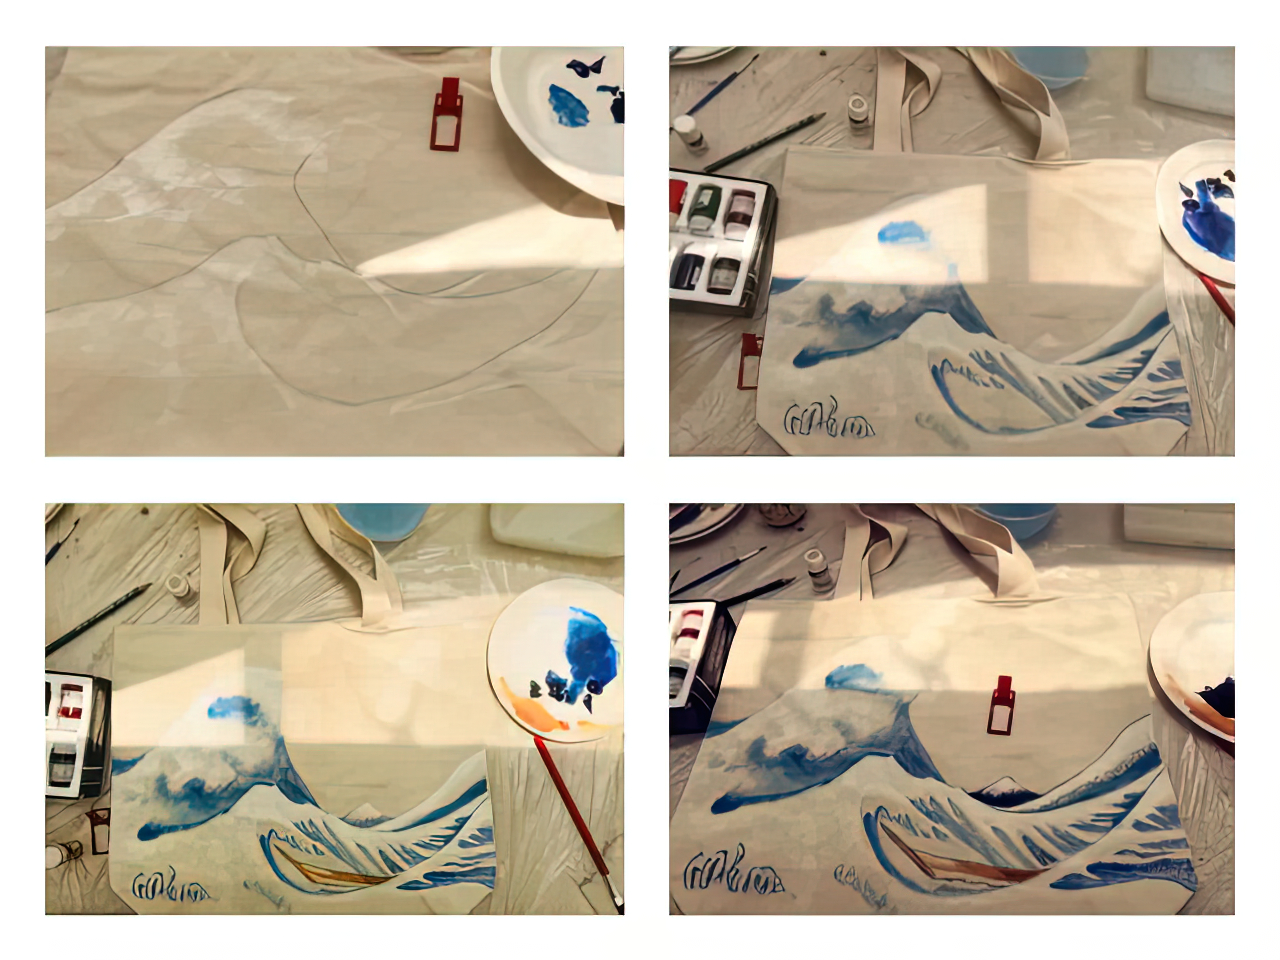
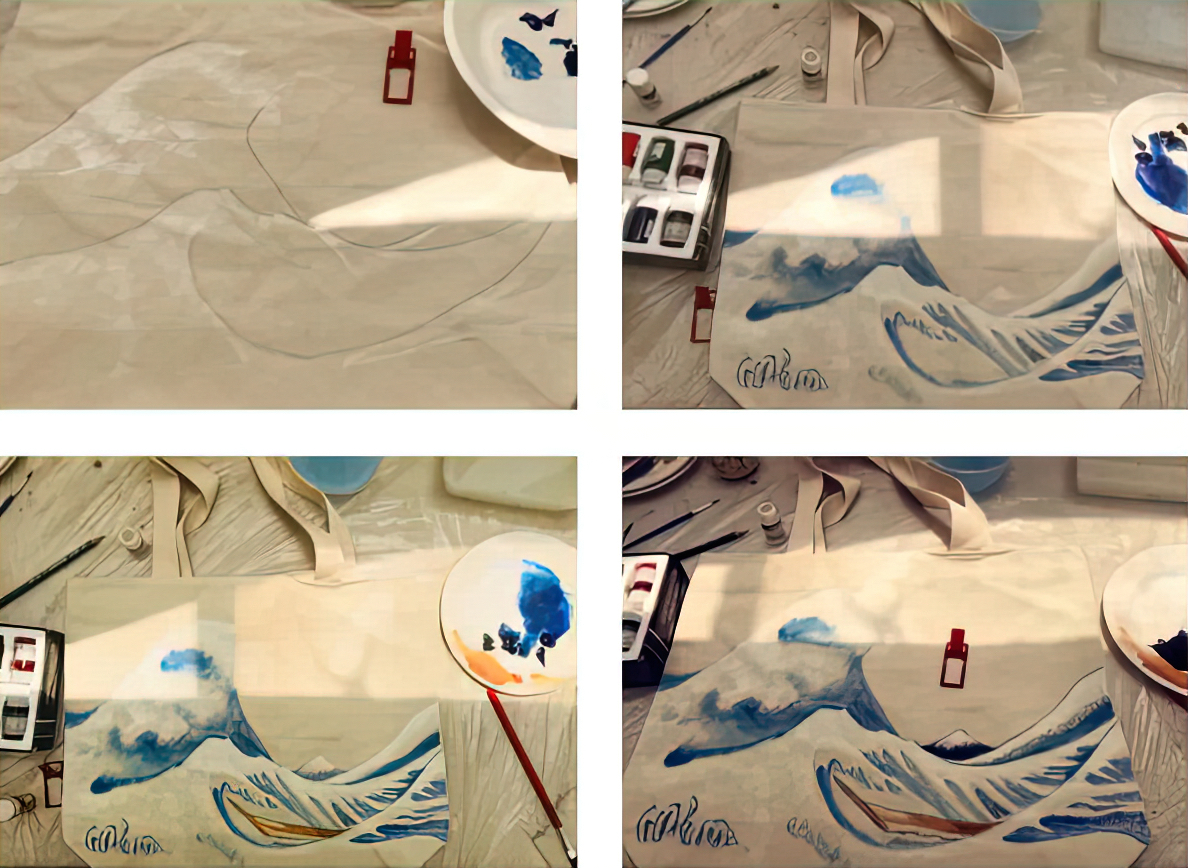
done portfolio page

diff --git a/index.html b/index.html
@@ -19,7 +19,7 @@ article_header:
   theme: dark
   type: cover
   image:
-    src: /assets/images/flocks-footer-text.gif
+    src: /assets/images/flocks-text.gif
 ---
 
 <!--more-->
@@ -30,6 +30,7 @@ article_header:
   }
 </style>
 
+<!-- Christina Ma 马千鸥 ｜ Know yourself. 认识你自己。 -->
 
 <div class="grid-containre">
   <div class="grid grid--p-3">

diff --git a/_portfolio/9-website.md b/_portfolio/9-website.md
@@ -1,27 +1,25 @@
 ---
 layout: article
-title: Personal Blog & Vlog [seagulls1000]
+title: This Website [mqo00.github.io]
 key: seagulls1000 
-tags: [writing, video]
+tags: [programming, web design, Jekyll]
 show_tages: true
 show_date: false
 sharing: true
-cover: /assets/images/seagulls1000-logo.png
+cover: /assets/images/website-logo.png
 lang: [en, zh]
 ---
 
-Since I graduated from high school, I started to operate a personal WeChat official account (**seagulls1000**), which is a Chinese platform to post blog and vlog. 
+This website itself is my attempt to practice the skills and learn some new tools for web design. 
 
 <!--more-->
 
-Initially, I was just sharing some of my study strategies and experiences preparing for tests like SAT, TOEFL, and AP, which were shared by influential WeChat accounts like INSIGHT, TestDaily, Panopath, and etc., and I also wrote QnAs for students who sought help in terms of major selection and test preparation. 
+Originally I used javaScript / HTML / CSS and node.js to develop a static website, but then I figured there’s a more elegant solution using [Jekyll], so I found a [template] and use my [GitHub] page to host this website. I also host it using my Andrew ID domain that CMU provides, as my parents said somehow they couldn’t access the mqo00.github.io page.
 
-Gradually, I started to write film reviews, travel notes, comments on gender equity issues, and thoughts on social phenomena. As I got into college, I made some vlogs to share my CMU life, and I also wrote articles on all those amazing courses I took. My ambition is to write an article for each class I took in CMU, but I haven’t even finished writing my freshmen year… If only I can have 48 hours a day!
+| `The storyboard design of this website` |
+| -- |
+|![](/assets/images/website.png)|
 
-I’ve written more than **500,000** words, **80+** articles, and made **20+** vlogs, and I have **3000+** followers now and hundreds to thousands of views on each article or video. Unfortunately, all of these articles (and voice-over for videos) are in Chinese and most of the time I didn’t have English subtitle, but if you want a sample of my non-academic writing, [here] is one I wrote in 2018 (actually quite early) and won the *First Place for College Prose* in the 20th Annual Martin Luther King Jr. Writing Awards.
-
-| :one: `Laser cutting` | :two: `The final project` |
-| -- | -- | 
-|![](/assets/images/24104-laser-cut.jpg)|![](/assets/images/24104-waterme.jpg)|
-
-[here]: https://www.cmu.edu/dietrich/english/mlk/2019/ma-christina.html
+[Jekyll]: https://jekyllrb.com/
+[template]: https://github.com/kitian616/jekyll-TeXt-theme
+[GitHub]: https://github.com/mqo00/mqo00.github.io

diff --git a/_portfolio/8-art.md b/_portfolio/8-art.md
@@ -17,13 +17,14 @@ I love drawing, making handicrafts, and doing calligraphy in my free time. There
 | *Houses 1* `pen-and-wash sketch` | *Walls* `pen-and-wash sketch` |
 | -- | -- | 
 |![](/assets/images/art-houses1.png)|![](/assets/images/art-walls.png)|
+
 | *Houses 2* `pen-and-ink sketch` | *Tree* `pen-and-ink sketch` |
 | -- | -- | 
 |![](/assets/images/art-houses2.png)|![](/assets/images/art-tree.png)|
 
-| *Small Regular Script* `calligraphy` | *Anthology of Poems* `calligraphy` |
-| -- | -- |
-|![](/assets/images/art-calligraphy1.png)|![](/assets/images/art-calligraphy2.png)|
+| *Small Regular Script* `calligraphy` | 
+| -- |
+|![](/assets/images/art-calligraphy1.png)|
 
 | *Tissue Box* `wood, gouache` | *Lamp* `watermelon` |
 | -- | -- | 
@@ -32,3 +33,14 @@ I love drawing, making handicrafts, and doing calligraphy in my free time. There
 | *Fish and Lotus* `hand painting on ceramic plate` |
 | -- |
 |![](/assets/images/art-ceramic.png)|
+
+| *Process 1* `canvas bag, acrylic paint` | *Process 2* `canvas bag, acrylic paint` |
+| -- | -- | 
+|![](/assets/images/art-bag0.png)|![](/assets/images/art-bag1.png)|
+
+| *Lilies and Fish & [The Wave] (pastiche)* | *[Don Quixote] (pastiche) & Cartoon* |
+| -- | -- | 
+|![](/assets/images/art-bag2.png)|![](/assets/images/art-bag3.png)|
+
+[The Wave]: https://en.wikipedia.org/wiki/The_Great_Wave_off_Kanagawa
+[Don Quixote]: https://en.wikipedia.org/wiki/Don_Quixote_(Picasso)

diff --git a/_portfolio/7-seagulls1000.md b/_portfolio/7-seagulls1000.md
@@ -10,7 +10,7 @@ cover: /assets/images/seagulls1000-logo.png
 lang: [en, zh]
 ---
 
-Since I graduated from high school, I started to operate a personal WeChat official account (**seagulls1000**), which is a Chinese platform to post blog and vlog. 
+Since I graduated from high school, I started to operate a personal WeChat official account (**seagulls1000**), which is a Chinese platform to post blogs and vlogs. 
 
 <!--more-->
 
